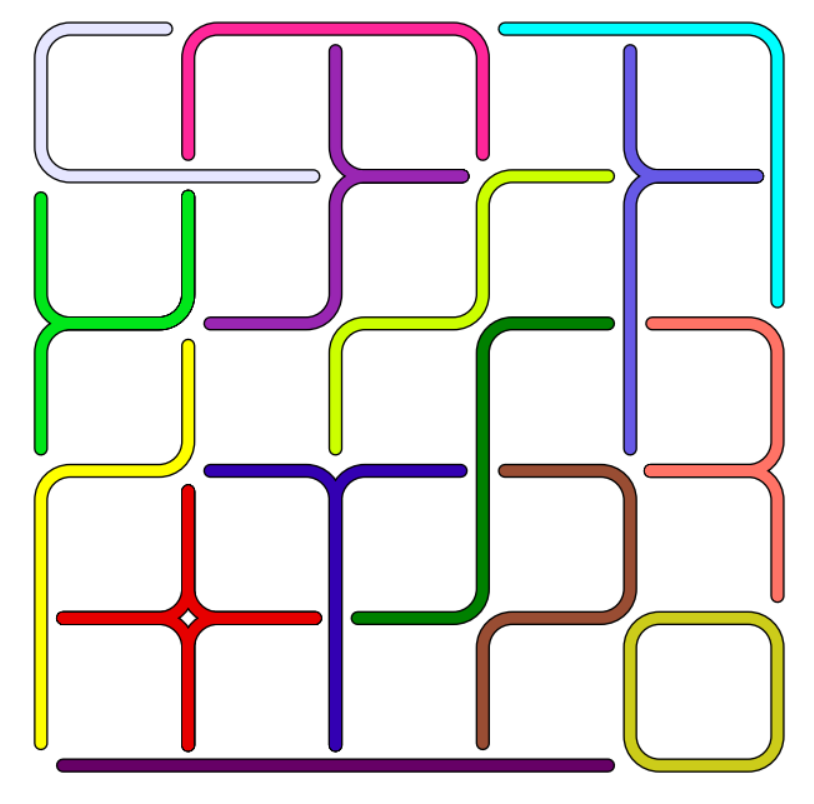
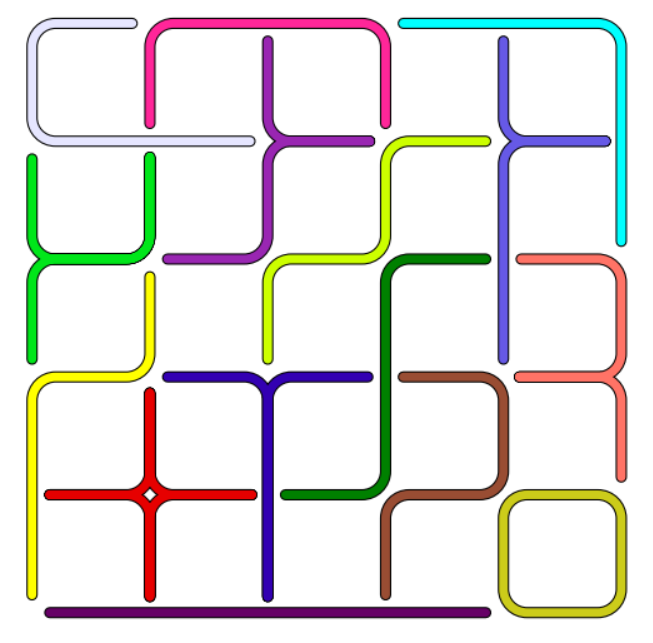
Now building martrix, solving matrix and displaying first solution

Changed region(s): [[0.0306, 0.0, 0.9801, 0.9642]]

diff --git a/TetraSticks/View/MainWindow.xaml.cs b/TetraSticks/View/MainWindow.xaml.cs
@@ -1,5 +1,4 @@
-using System;
-using System.Linq;
+using System.Linq;
 using TetraSticks.Model;
 
 namespace TetraSticks.View
@@ -13,51 +12,15 @@ namespace TetraSticks.View
             {
                 BoardControl.DrawGrid();
 
-                //BoardControl.DrawPlacedTetraStick(new PlacedTetraStick(Model.TetraSticks.F, new Coords(4, 1), Orientation.North, ReflectionMode.MirrorY));
-                //BoardControl.DrawPlacedTetraStick(new PlacedTetraStick(Model.TetraSticks.H, new Coords(0, 2), Orientation.South, ReflectionMode.MirrorY));
-                //BoardControl.DrawPlacedTetraStick(new PlacedTetraStick(Model.TetraSticks.I, new Coords(0, 0), Orientation.East, ReflectionMode.Normal));
-                //BoardControl.DrawPlacedTetraStick(new PlacedTetraStick(Model.TetraSticks.J, new Coords(0, 4), Orientation.East, ReflectionMode.Normal));
-                //BoardControl.DrawPlacedTetraStick(new PlacedTetraStick(Model.TetraSticks.N, new Coords(0, 0), Orientation.South, ReflectionMode.Normal));
-                //BoardControl.DrawPlacedTetraStick(new PlacedTetraStick(Model.TetraSticks.O, new Coords(4, 0), Orientation.North, ReflectionMode.Normal));
-                //BoardControl.DrawPlacedTetraStick(new PlacedTetraStick(Model.TetraSticks.P, new Coords(3, 0), Orientation.North, ReflectionMode.Normal));
-                //BoardControl.DrawPlacedTetraStick(new PlacedTetraStick(Model.TetraSticks.R, new Coords(1, 3), Orientation.South, ReflectionMode.Normal));
-                //BoardControl.DrawPlacedTetraStick(new PlacedTetraStick(Model.TetraSticks.T, new Coords(1, 0), Orientation.North, ReflectionMode.Normal));
-                //BoardControl.DrawPlacedTetraStick(new PlacedTetraStick(Model.TetraSticks.U, new Coords(1, 4), Orientation.South, ReflectionMode.Normal));
-                //BoardControl.DrawPlacedTetraStick(new PlacedTetraStick(Model.TetraSticks.V, new Coords(3, 3), Orientation.West, ReflectionMode.Normal));
-                //BoardControl.DrawPlacedTetraStick(new PlacedTetraStick(Model.TetraSticks.W, new Coords(2, 2), Orientation.South, ReflectionMode.Normal));
-                //BoardControl.DrawPlacedTetraStick(new PlacedTetraStick(Model.TetraSticks.X, new Coords(0, 0), Orientation.North, ReflectionMode.Normal));
-                //BoardControl.DrawPlacedTetraStick(new PlacedTetraStick(Model.TetraSticks.Y, new Coords(4, 2), Orientation.West, ReflectionMode.MirrorY));
-                //BoardControl.DrawPlacedTetraStick(new PlacedTetraStick(Model.TetraSticks.Z, new Coords(2, 1), Orientation.North, ReflectionMode.MirrorY));
-
-                var rows = new[]
-                {
-                    new PlacedTetraStick(Model.TetraSticks.F, new Coords(4, 1), Orientation.North, ReflectionMode.MirrorY),
-                    new PlacedTetraStick(Model.TetraSticks.H, new Coords(0, 2), Orientation.South, ReflectionMode.MirrorY),
-                    new PlacedTetraStick(Model.TetraSticks.I, new Coords(0, 0), Orientation.East, ReflectionMode.Normal),
-                    new PlacedTetraStick(Model.TetraSticks.J, new Coords(0, 4), Orientation.East, ReflectionMode.Normal),
-                    new PlacedTetraStick(Model.TetraSticks.N, new Coords(0, 0), Orientation.South, ReflectionMode.Normal),
-                    new PlacedTetraStick(Model.TetraSticks.O, new Coords(4, 0), Orientation.North, ReflectionMode.Normal),
-                    new PlacedTetraStick(Model.TetraSticks.P, new Coords(3, 0), Orientation.North, ReflectionMode.Normal),
-                    new PlacedTetraStick(Model.TetraSticks.R, new Coords(1, 3), Orientation.South, ReflectionMode.Normal),
-                    new PlacedTetraStick(Model.TetraSticks.T, new Coords(1, 0), Orientation.North, ReflectionMode.Normal),
-                    new PlacedTetraStick(Model.TetraSticks.U, new Coords(1, 4), Orientation.South, ReflectionMode.Normal),
-                    new PlacedTetraStick(Model.TetraSticks.V, new Coords(3, 3), Orientation.West, ReflectionMode.Normal),
-                    new PlacedTetraStick(Model.TetraSticks.W, new Coords(2, 2), Orientation.South, ReflectionMode.Normal),
-                    new PlacedTetraStick(Model.TetraSticks.X, new Coords(0, 0), Orientation.North, ReflectionMode.Normal),
-                    new PlacedTetraStick(Model.TetraSticks.Y, new Coords(4, 2), Orientation.West, ReflectionMode.MirrorY),
-                    new PlacedTetraStick(Model.TetraSticks.Z, new Coords(2, 1), Orientation.North, ReflectionMode.MirrorY)
-                };
-
-                foreach (var row in rows)
-                    BoardControl.DrawPlacedTetraStick(row);
-
                 var tetraStickToOmit = Model.TetraSticks.L;
                 var tetraSticks = Model.TetraSticks.All.Where(ts => ts.Tag != tetraStickToOmit.Tag).ToList();
-                //var rows = RowBuilder.BuildRows(tetraSticks).ToList();
-                var matrix = DlxMatrixBuilder.BuildDlxMatrix(tetraSticks, rows).ToList();
+                var rows = RowBuilder.BuildRows(tetraSticks).ToArray();
+                var matrix = DlxMatrixBuilder.BuildDlxMatrix(tetraSticks, rows);
                 var dlx = new DlxLib.Dlx();
-                var solutions = dlx.Solve(matrix, d => d, r => r).ToList();
-                System.Diagnostics.Debug.WriteLine($"Number of solutions found: {solutions.Count}");
+                var solutions = dlx.Solve(matrix, d => d, r => r);
+                var firstSolution = solutions.First();
+                var solutionRows = firstSolution.RowIndexes.Select(idx => rows[idx]);
+                foreach (var row in solutionRows) BoardControl.DrawPlacedTetraStick(row);
             };
         }
     }

diff --git a/TetraSticks/Model/DlxMatrixBuilder.cs b/TetraSticks/Model/DlxMatrixBuilder.cs
@@ -15,68 +15,24 @@ namespace TetraSticks.Model
             return placedTetraSticks.Select(placedTetraStick => BuildDlxMatrixRow(tagToIndexDict, placedTetraStick));
         }
 
-        private static string BitsToString(IEnumerable<int> xs)
-        {
-            return string.Join("", xs.Select(x => Convert.ToString(x)));
-        }
-
-        private static void DumpLines(IEnumerable<IEnumerable<Coords>> lines)
-        {
-            foreach (var line in lines)
-                DumpLine(line);
-        }
-
-        private static void DumpLine(IEnumerable<Coords> line)
-        {
-            var pts = string.Join(", ", line.Select(pt => pt.ToString()));
-            Debug.WriteLine($"[{pts}]");
-        }
-
-        private static void DumpSegments(Tuple<IEnumerable<Tuple<Coords, Coords>>, IEnumerable<Tuple<Coords, Coords>>> t)
-        {
-            Debug.WriteLine("hs:");
-            DumpSegments(t.Item1);
-
-            Debug.WriteLine("vs:");
-            DumpSegments(t.Item2);
-        }
-
-        private static void DumpSegments(IEnumerable<Tuple<Coords, Coords>> segments)
-        {
-            var pts = string.Join(", ", segments.Select(pair => $"{pair.Item1} => {pair.Item2}"));
-            Debug.WriteLine($"[{pts}]");
-        }
-
         private static List<int> BuildDlxMatrixRow(Dictionary<string, int> tagToIndexDict, PlacedTetraStick placedTetraStick)
         {
-            // 15 columns for the 15 tetra sticks (map tag name to index, map is zip of tetraSticks with [0..])
-            // 25 columns for Hxy (0 <= x < 5, 0 <= y < 5) index is x*5+y
-            // 25 columns for Vxy (0 <= x < 5, 0 <= y < 5) index is x*5+y
-            // 16 columns for Ixy (0 < x < 5, 0 < y < 5)   index is (x-1)*4+(y-1)
-
             var arr1 = new int[15]; // the 15 tetra sticks
-            var arr2 = new int[25]; // Hxy where 0 <= x < 5, 0 <= y < 5
-            var arr3 = new int[25]; // Vxy where 0 <= x < 5, 0 <= y < 5
+            var arr2 = new int[30]; // Hxy where 0 <= x < 5, 0 <= y <= 5
+            var arr3 = new int[30]; // Vxy where 0 <= x <= 5, 0 <= y < 5
             // var arr4 = new int[16]; // Ixy where 0 < x < 5, 0 < y < 5
 
             arr1[tagToIndexDict[placedTetraStick.Tag]] = 1;
 
-            Debug.WriteLine("Before normalisation:");
-            DumpLines(placedTetraStick.Lines);
-
-            var t = NormaliseLines(placedTetraStick.Lines);
-
-            Debug.WriteLine("After normalisation:");
-            DumpSegments(t);
-
-            var hs = t.Item1;
-            var vs = t.Item2;
+            var tuple = NormaliseLines(placedTetraStick.Lines);
+            var hs = tuple.Item1;
+            var vs = tuple.Item2;
 
             foreach (var h in hs)
             {
                 var x = h.Item1.X;
                 var y = h.Item1.Y;
-                arr2[x*5 + y] = 1;
+                arr2[y*5 + x] = 1;
             }
 
             foreach (var v in vs)
@@ -94,8 +50,6 @@ namespace TetraSticks.Model
 
             // var arrs = new[] {arr1, arr2, arr3, arr4};
             var arrs = new[] {arr1, arr2, arr3};
-
-            Debug.WriteLine($"{BitsToString(arr1)} {BitsToString(arr2)} {BitsToString(arr3)}");
 
             return arrs.SelectMany(arr => arr).ToList();
         }

diff --git a/TetraSticks/Model/PlacedTetraStick.cs b/TetraSticks/Model/PlacedTetraStick.cs
@@ -8,8 +8,8 @@ namespace TetraSticks.Model
     {
         public PlacedTetraStick(TetraStick tetraStick, Coords location, Orientation orientation, ReflectionMode reflectionMode)
         {
-            Location = location;
             TetraStick = tetraStick;
+            Location = location;
             Orientation = orientation;
             ReflectionMode = reflectionMode;
             _lazyWidth = new Lazy<int>(CalculateWidth);
@@ -19,18 +19,20 @@ namespace TetraSticks.Model
         }
 
         public string Tag => TetraStick.Tag;
+        public Coords Location { get; }
+        public int Width => _lazyWidth.Value;
+        public int Height => _lazyHeight.Value;
         public IEnumerable<Coords> InteriorJunctionPoints => _lazyInteriorJunctionPoints.Value;
         public IEnumerable<IEnumerable<Coords>> Lines => _lazyLines.Value;
         private TetraStick TetraStick { get; }
-        public Coords Location { get; }
         private Orientation Orientation { get; }
         private ReflectionMode ReflectionMode { get; }
-        public int Width => _lazyWidth.Value;
-        public int Height => _lazyHeight.Value;
 
         private Coords ApplyTransform(Coords coords)
         {
-            return ApplyReflectionMode(ApplyOrientation(coords));
+            return ApplyLocation(
+                ApplyReflectionMode(
+                    ApplyOrientation(coords)));
         }
 
         private Coords ApplyOrientation(Coords coords)
@@ -67,6 +69,11 @@ namespace TetraSticks.Model
                 default:
                     throw new InvalidOperationException($"Unknown reflection mode, \"{ReflectionMode}\".");
             }
+        }
+
+        private Coords ApplyLocation(Coords coords)
+        {
+            return new Coords(Location.X + coords.X, Location.Y + coords.Y);
         }
 
         private readonly Lazy<int> _lazyWidth;

diff --git a/TetraSticks/View/BoardControl.xaml.cs b/TetraSticks/View/BoardControl.xaml.cs
@@ -26,10 +26,10 @@ namespace TetraSticks.View
         {
             var colour = TetraStickColours.TagToColour(placedTetraStick.Tag);
             foreach (var line in placedTetraStick.Lines)
-                DrawLine(colour, placedTetraStick.Location, line.ToArray());
+                DrawLine(colour, line.ToArray());
         }
 
-        private void DrawLine(Color colour, Coords location, params Coords[] coords)
+        private void DrawLine(Color colour, params Coords[] coords)
         {
             var aw = ActualWidth;
             var ah = ActualHeight;
@@ -38,8 +38,8 @@ namespace TetraSticks.View
 
             var transformedPts = coords
                 .Select(coord => new Point(
-                    (location.X + coord.X) * sw + GridLineHalfThickness,
-                    (5 - location.Y - coord.Y) * sh + GridLineHalfThickness))
+                    (coord.X) * sw + GridLineHalfThickness,
+                    (5 - coord.Y) * sh + GridLineHalfThickness))
                 .ToList();
 
             var polyLineSegment = new PolyLineSegment(transformedPts, true);

diff --git a/README.md b/README.md
@@ -27,19 +27,19 @@ he discusses puzzles involving 15 of the 16 possible tetra sticks in a 5 x 5 squ
   - ~~draw with correct colour~~
   - ~~draw with given orientation~~
   - ~~draw with given reflection mode~~
-- need to enumerate all possible locations for each tetra stick
-  - with all possible orientations and reflection modes
-- need to be able to generate a matrix row for a given tetra stick/location/orientation
-  - initially, ignore interior junction points
-- build DLX matrix with all rows (no secondary columns)
-  - we only want to do this for 15 of the 16 tetra sticks
-    - initially, hardcode which 15 tetra sticks to use
+- ~~need to enumerate all possible locations for each tetra stick~~
+  - ~~with all possible orientations and reflection modes~~
+- ~~need to be able to generate a matrix row for a given tetra stick/location/orientation~~
+  - ~~initially, ignore interior junction points~~
+- ~~build DLX matrix with all rows (no secondary columns)~~
+  - ~~we only want to do this for 15 of the 16 tetra sticks~~
+    - ~~initially, hardcode which 15 tetra sticks to use~~
 - solve DLX matrix
-  - initially on the main thread
-  - then on a background thread
-  - then display a dialog box during the action
-  - then add the ability to cancel the action
-- display (first) solution
+  - ~~initially on the main thread~~
+  - ~~display first solution~~
+  - then solve on a background thread
+  - then display a dialog box during solving
+  - then add the ability to cancel the solving
 - extend DlxLib to support secondary columns
 - extend DLX matrix by adding secondary columns for the interior
   junction points when these are not on the edges of the grid
